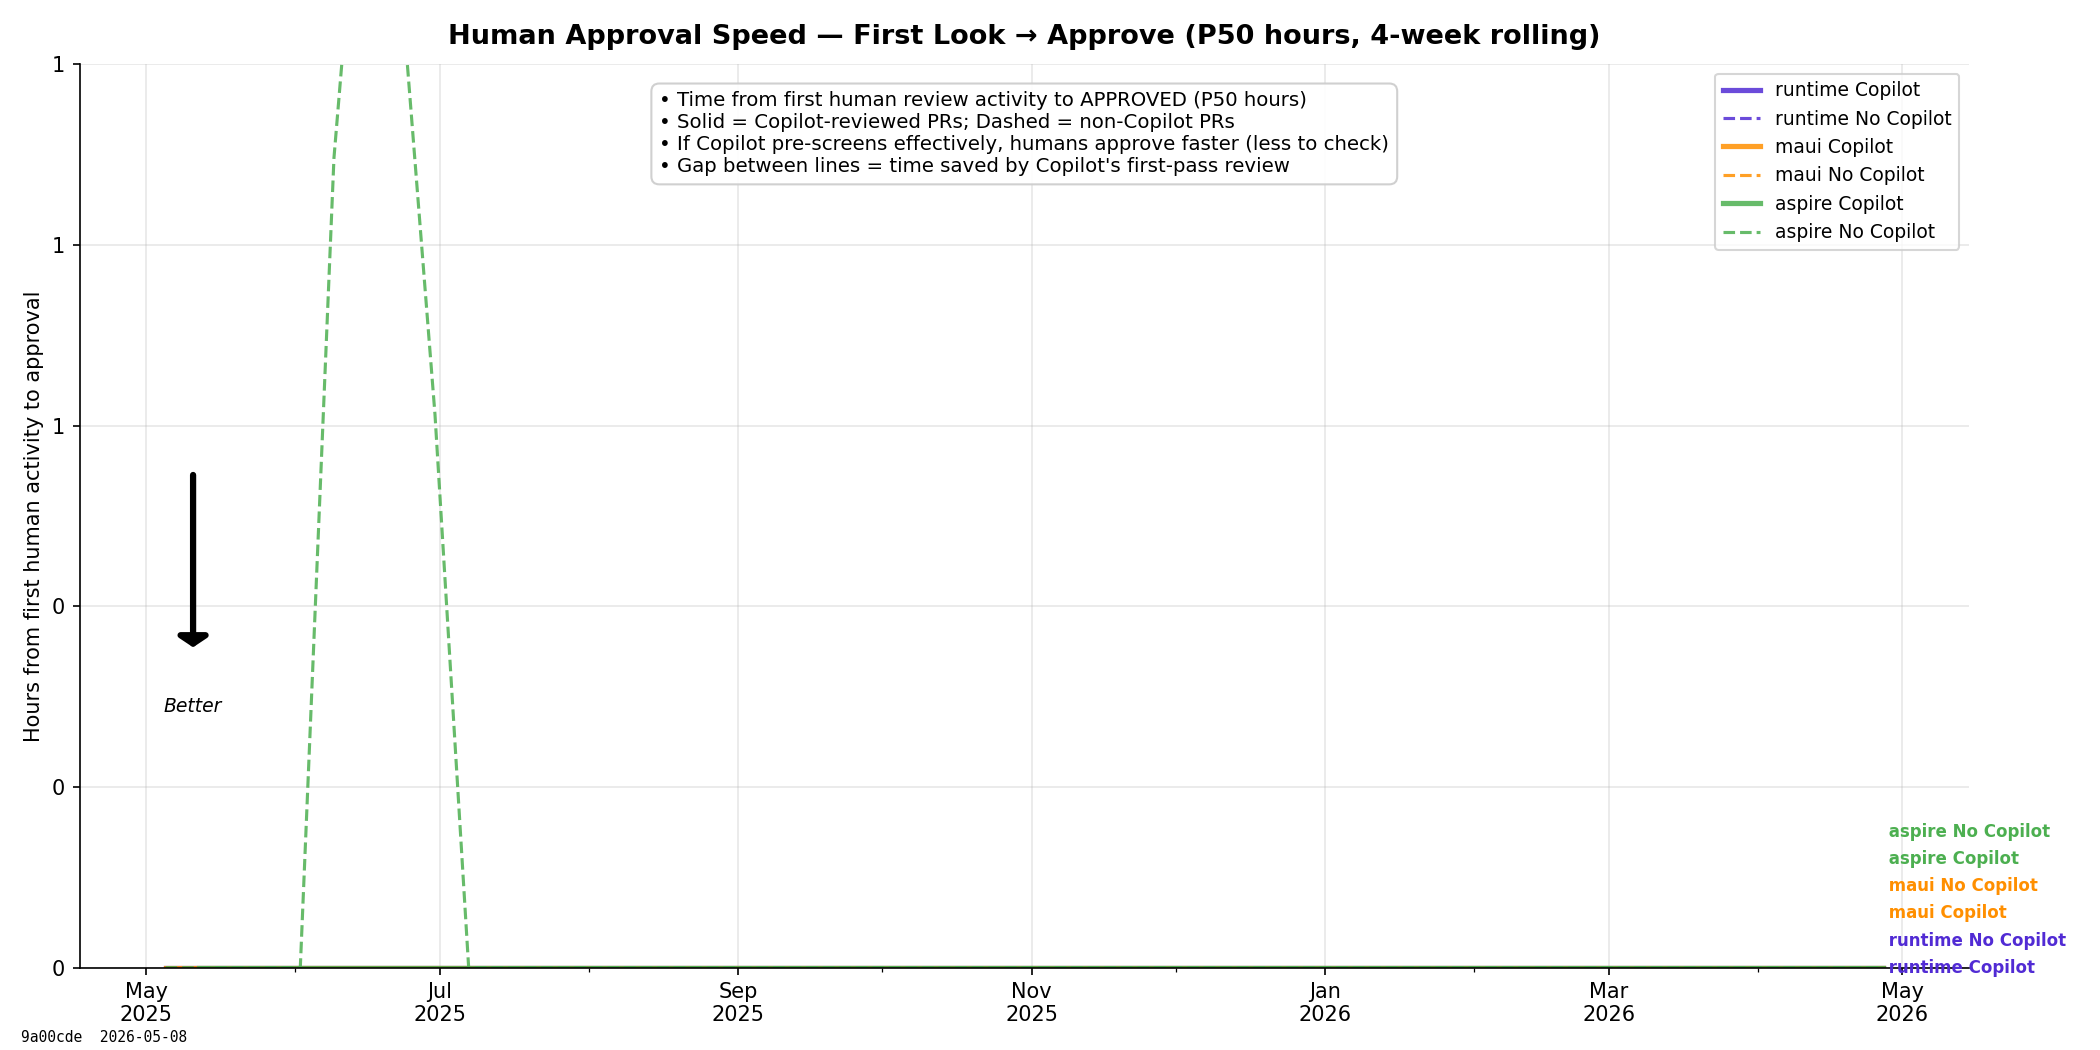
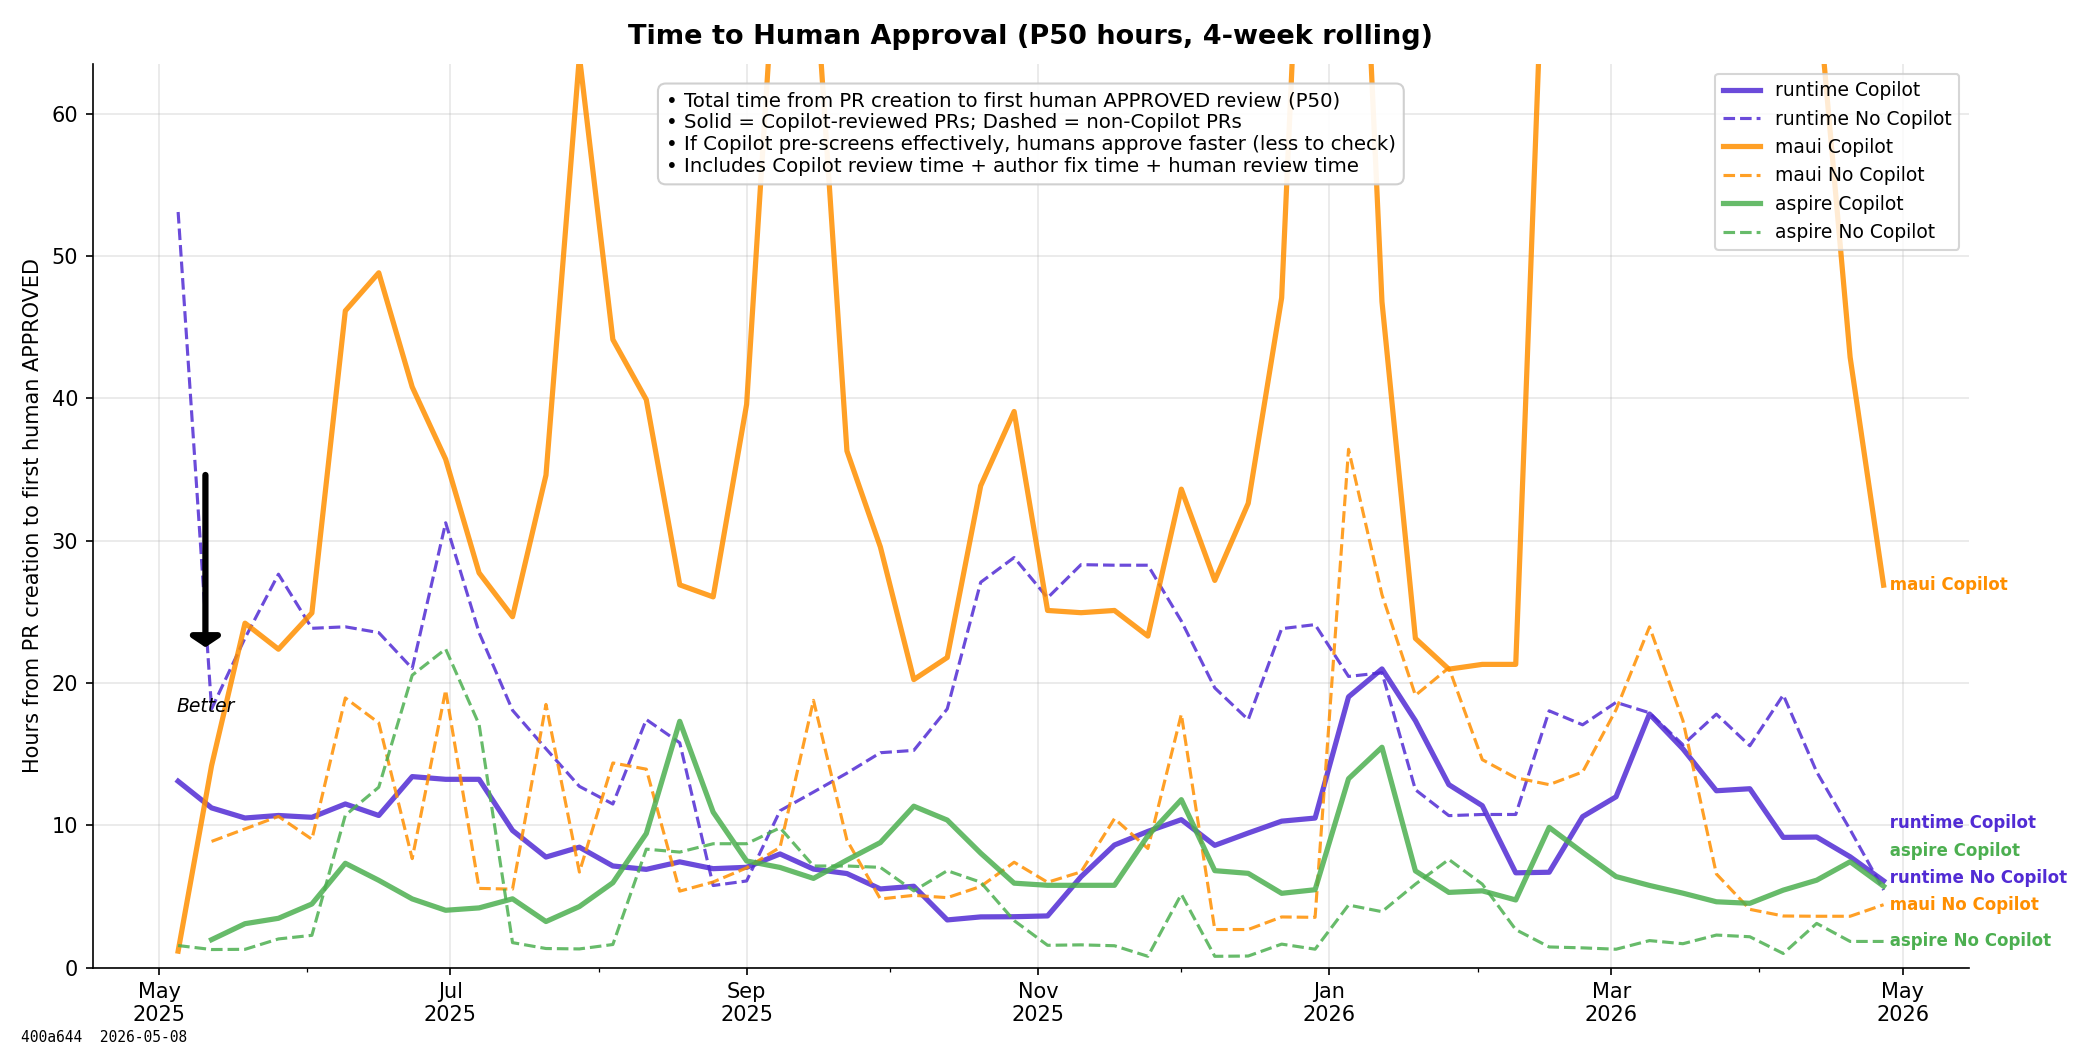
Fix broken charts + improve insight text
- Approval speed: measure PR creation → human approval (was first-look
  → approval which was always ~0). Now shows real 10-65h signal.
- Iteration count: switch from P50 count (always 0) to % of PRs with
  ≥1 CHANGES_REQUESTED. Now shows 17-40% for maui, <5% for runtime.
- Safety chart: update insight text to reflect that Copilot-only PRs
  currently show higher defect rates (important finding).
- Add path field to review comment data for thread depth grouping.

diff --git a/analyze.py b/analyze.py
@@ -4784,14 +4784,14 @@ def chart_review_rubber_stamp_rate(all_items, review_data, output_dir):
 
 
 def chart_review_human_approval_speed(all_items, review_data, output_dir):
-    """Human Approval Speed — hours from first human look to APPROVED.
+    """Human Approval Speed — hours from PR creation to first human APPROVED.
     Compares Copilot-reviewed PRs vs non-Copilot-reviewed PRs.
     If Copilot review is effective, humans approve faster on Copilot-reviewed PRs."""
     from statistics import median
 
     fig, ax = plt.subplots(figsize=(14, 7))
-    setup_axes(ax, "Human Approval Speed — First Look → Approve (P50 hours, 4-week rolling)",
-               "Hours from first human activity to approval")
+    setup_axes(ax, "Time to Human Approval (P50 hours, 4-week rolling)",
+               "Hours from PR creation to first human APPROVED")
 
     today = datetime.now().date()
     cutoff = today - timedelta(days=365)
@@ -4822,21 +4822,19 @@ def chart_review_human_approval_speed(all_items, review_data, output_dir):
             if not cd or cd < cutoff:
                 continue
 
-            # First human activity (any state)
-            first_human_ts = human_reviews[0]["submitted_at"]
-            # First APPROVED
+            # First APPROVED by a human
             first_approval = None
             for r in human_reviews:
                 if r["state"] == "APPROVED" and r["submitted_at"]:
                     first_approval = r["submitted_at"]
                     break
-            if not first_human_ts or not first_approval:
+            if not first_approval or not item.get("created_at"):
                 continue
             try:
-                h_dt = datetime.fromisoformat(first_human_ts.replace("Z", "+00:00"))
+                created_dt = datetime.fromisoformat(item["created_at"].replace("Z", "+00:00"))
                 a_dt = datetime.fromisoformat(first_approval.replace("Z", "+00:00"))
-                hours = (a_dt - h_dt).total_seconds() / 3600
-                if hours < 0 or hours > 168:
+                hours = (a_dt - created_dt).total_seconds() / 3600
+                if hours < 0 or hours > 336:  # Cap at 2 weeks
                     continue
             except (ValueError, AttributeError):
                 continue
@@ -4887,10 +4885,10 @@ def chart_review_human_approval_speed(all_items, review_data, output_dir):
     label_line_ends(ax, line_ends)
     add_direction_arrow(ax, "down")
     add_insight_box(ax, [
-        "Time from first human review activity to APPROVED (P50 hours)",
+        "Total time from PR creation to first human APPROVED review (P50)",
         "Solid = Copilot-reviewed PRs; Dashed = non-Copilot PRs",
         "If Copilot pre-screens effectively, humans approve faster (less to check)",
-        "Gap between lines = time saved by Copilot's first-pass review",
+        "Includes Copilot review time + author fix time + human review time",
     ])
     fig.tight_layout()
     path = os.path.join(output_dir, "review_human_approval_speed.png")
@@ -4900,13 +4898,12 @@ def chart_review_human_approval_speed(all_items, review_data, output_dir):
 
 
 def chart_review_iteration_count(all_items, review_data, output_dir):
-    """Review Iteration Count — number of CHANGES_REQUESTED rounds before merge.
+    """Review Iteration Rate — % of PRs that receive ≥1 CHANGES_REQUESTED before merge.
     Compares Copilot-reviewed PRs vs non-Copilot-reviewed PRs."""
-    from statistics import median
 
     fig, ax = plt.subplots(figsize=(14, 7))
-    setup_axes(ax, "Human Review Rounds (CHANGES_REQUESTED) Before Merge (4-week P50)",
-               "Review rounds per PR")
+    setup_axes(ax, "% of PRs Receiving CHANGES_REQUESTED (4-week rolling)",
+               "% of merged PRs with ≥1 change request")
 
     today = datetime.now().date()
     cutoff = today - timedelta(days=365)
@@ -4922,8 +4919,12 @@ def chart_review_iteration_count(all_items, review_data, output_dir):
             continue
         reviews_by_pr = rd["reviews_by_pr"]
 
-        rounds_copilot_by_week = defaultdict(list)
-        rounds_nocopilot_by_week = defaultdict(list)
+        # Track total and "has changes_requested" per week
+        copilot_total_by_week = defaultdict(int)
+        copilot_cr_by_week = defaultdict(int)
+        nocopilot_total_by_week = defaultdict(int)
+        nocopilot_cr_by_week = defaultdict(int)
+
         for item in items:
             if not item.get("is_pr") or not item.get("merged_at"):
                 continue
@@ -4936,46 +4937,49 @@ def chart_review_iteration_count(all_items, review_data, output_dir):
             if not cd or cd < cutoff:
                 continue
 
-            changes_requested = sum(1 for r in human_reviews
-                                    if r["state"] == "CHANGES_REQUESTED")
+            has_cr = any(r["state"] == "CHANGES_REQUESTED" for r in human_reviews)
             has_copilot = any(_is_copilot_reviewer(r["author"]) for r in reviews)
             wk = week_start(cd)
             if has_copilot:
-                rounds_copilot_by_week[wk].append(changes_requested)
+                copilot_total_by_week[wk] += 1
+                if has_cr:
+                    copilot_cr_by_week[wk] += 1
             else:
-                rounds_nocopilot_by_week[wk].append(changes_requested)
+                nocopilot_total_by_week[wk] += 1
+                if has_cr:
+                    nocopilot_cr_by_week[wk] += 1
 
-        for label_suffix, data_by_week, ls, lw in [
-            ("Copilot", rounds_copilot_by_week, "-", 2.5),
-            ("No Copilot", rounds_nocopilot_by_week, "--", 1.5),
+        for label_suffix, total_by_week, cr_by_week, ls, lw in [
+            ("Copilot", copilot_total_by_week, copilot_cr_by_week, "-", 2.5),
+            ("No Copilot", nocopilot_total_by_week, nocopilot_cr_by_week, "--", 1.5),
         ]:
-            if not data_by_week:
+            if not total_by_week:
                 continue
-            weeks_x, p50s = [], []
-            w = max(min(data_by_week.keys()), cutoff)
+            weeks_x, rates = [], []
+            w = max(min(total_by_week.keys()), cutoff)
             w = week_start(w)
             while w <= last_complete_week:
-                window_vals = []
-                for k in range(4):
-                    window_vals.extend(data_by_week.get(w - timedelta(weeks=k), []))
-                if len(window_vals) >= 5:
+                total = sum(total_by_week.get(w - timedelta(weeks=k), 0) for k in range(4))
+                cr = sum(cr_by_week.get(w - timedelta(weeks=k), 0) for k in range(4))
+                if total >= 5:
                     weeks_x.append(w)
-                    p50s.append(median(window_vals))
+                    rates.append(100 * cr / total)
                 w += timedelta(weeks=1)
             if not weeks_x:
                 continue
             lbl = f"{get_short(repo)} {label_suffix}"
-            ax.plot(weeks_x, p50s, color=get_color(repo), linestyle=ls,
+            ax.plot(weeks_x, rates, color=get_color(repo), linestyle=ls,
                     linewidth=lw, label=lbl, alpha=0.85)
-            visible_data.append(p50s)
-            line_ends.append((weeks_x, p50s, lbl, get_color(repo)))
+            visible_data.append(rates)
+            line_ends.append((weeks_x, rates, lbl, get_color(repo)))
 
     if not visible_data:
         plt.close(fig)
         print("  (skipping review iteration count — no data)")
         return
     ymin, ymax = robust_ylim(visible_data)
-    ax.set_ylim(0, max(ymax, 2))
+    ax.set_ylim(0, min(ymax, 100))
+    ax.yaxis.set_major_formatter(plt.FuncFormatter(lambda x, _: f"{x:.0f}%"))
     ax.xaxis.set_major_locator(mdates.MonthLocator(interval=2))
     ax.xaxis.set_major_formatter(mdates.DateFormatter("%b\n%Y"))
     ax.xaxis.set_minor_locator(mdates.MonthLocator())
@@ -4983,10 +4987,10 @@ def chart_review_iteration_count(all_items, review_data, output_dir):
     label_line_ends(ax, line_ends)
     add_direction_arrow(ax, "down")
     add_insight_box(ax, [
-        "Total CHANGES_REQUESTED events per PR before merge (P50)",
+        "% of merged PRs where a human requested changes at least once",
         "Solid = Copilot-reviewed PRs; Dashed = non-Copilot PRs",
-        "If Copilot catches issues upfront, fewer human re-review rounds needed",
-        "Lower = less back-and-forth = smoother path to merge",
+        "If Copilot catches issues upfront, fewer PRs need human change requests",
+        "Lower = smoother path to merge, less back-and-forth",
     ])
     fig.tight_layout()
     path = os.path.join(output_dir, "review_iteration_count.png")
@@ -5718,11 +5722,11 @@ def chart_review_rubber_stamp_safety(all_items, review_data, output_dir):
     ax.legend(loc="upper right", fontsize=10)
     add_direction_arrow(ax, "down")
     add_insight_box(ax, [
-        "Defect rate for Copilot-only PRs vs human-reviewed PRs",
-        "Copilot-only = no human review comments (rubber-stamped)",
-        "If similar rates → Copilot review alone is sufficient for those PRs",
-        "Key safety check: if Copilot-only rate spikes → over-trusting AI review",
-        "⚠ Selection bias: rubber-stamped PRs may be inherently simpler",
+        "Defect rate for Copilot-only PRs vs human+Copilot reviewed PRs",
+        "Copilot-only = merged with no human review comments",
+        "If Copilot-only rate is higher: human review still adds safety value",
+        "If rates converge over time: Copilot catching more, humans needed less",
+        "⚠ Selection bias: Copilot-only PRs may not be the simplest ones",
     ])
     fig.tight_layout()
     path = os.path.join(output_dir, "review_rubber_stamp_safety.png")
